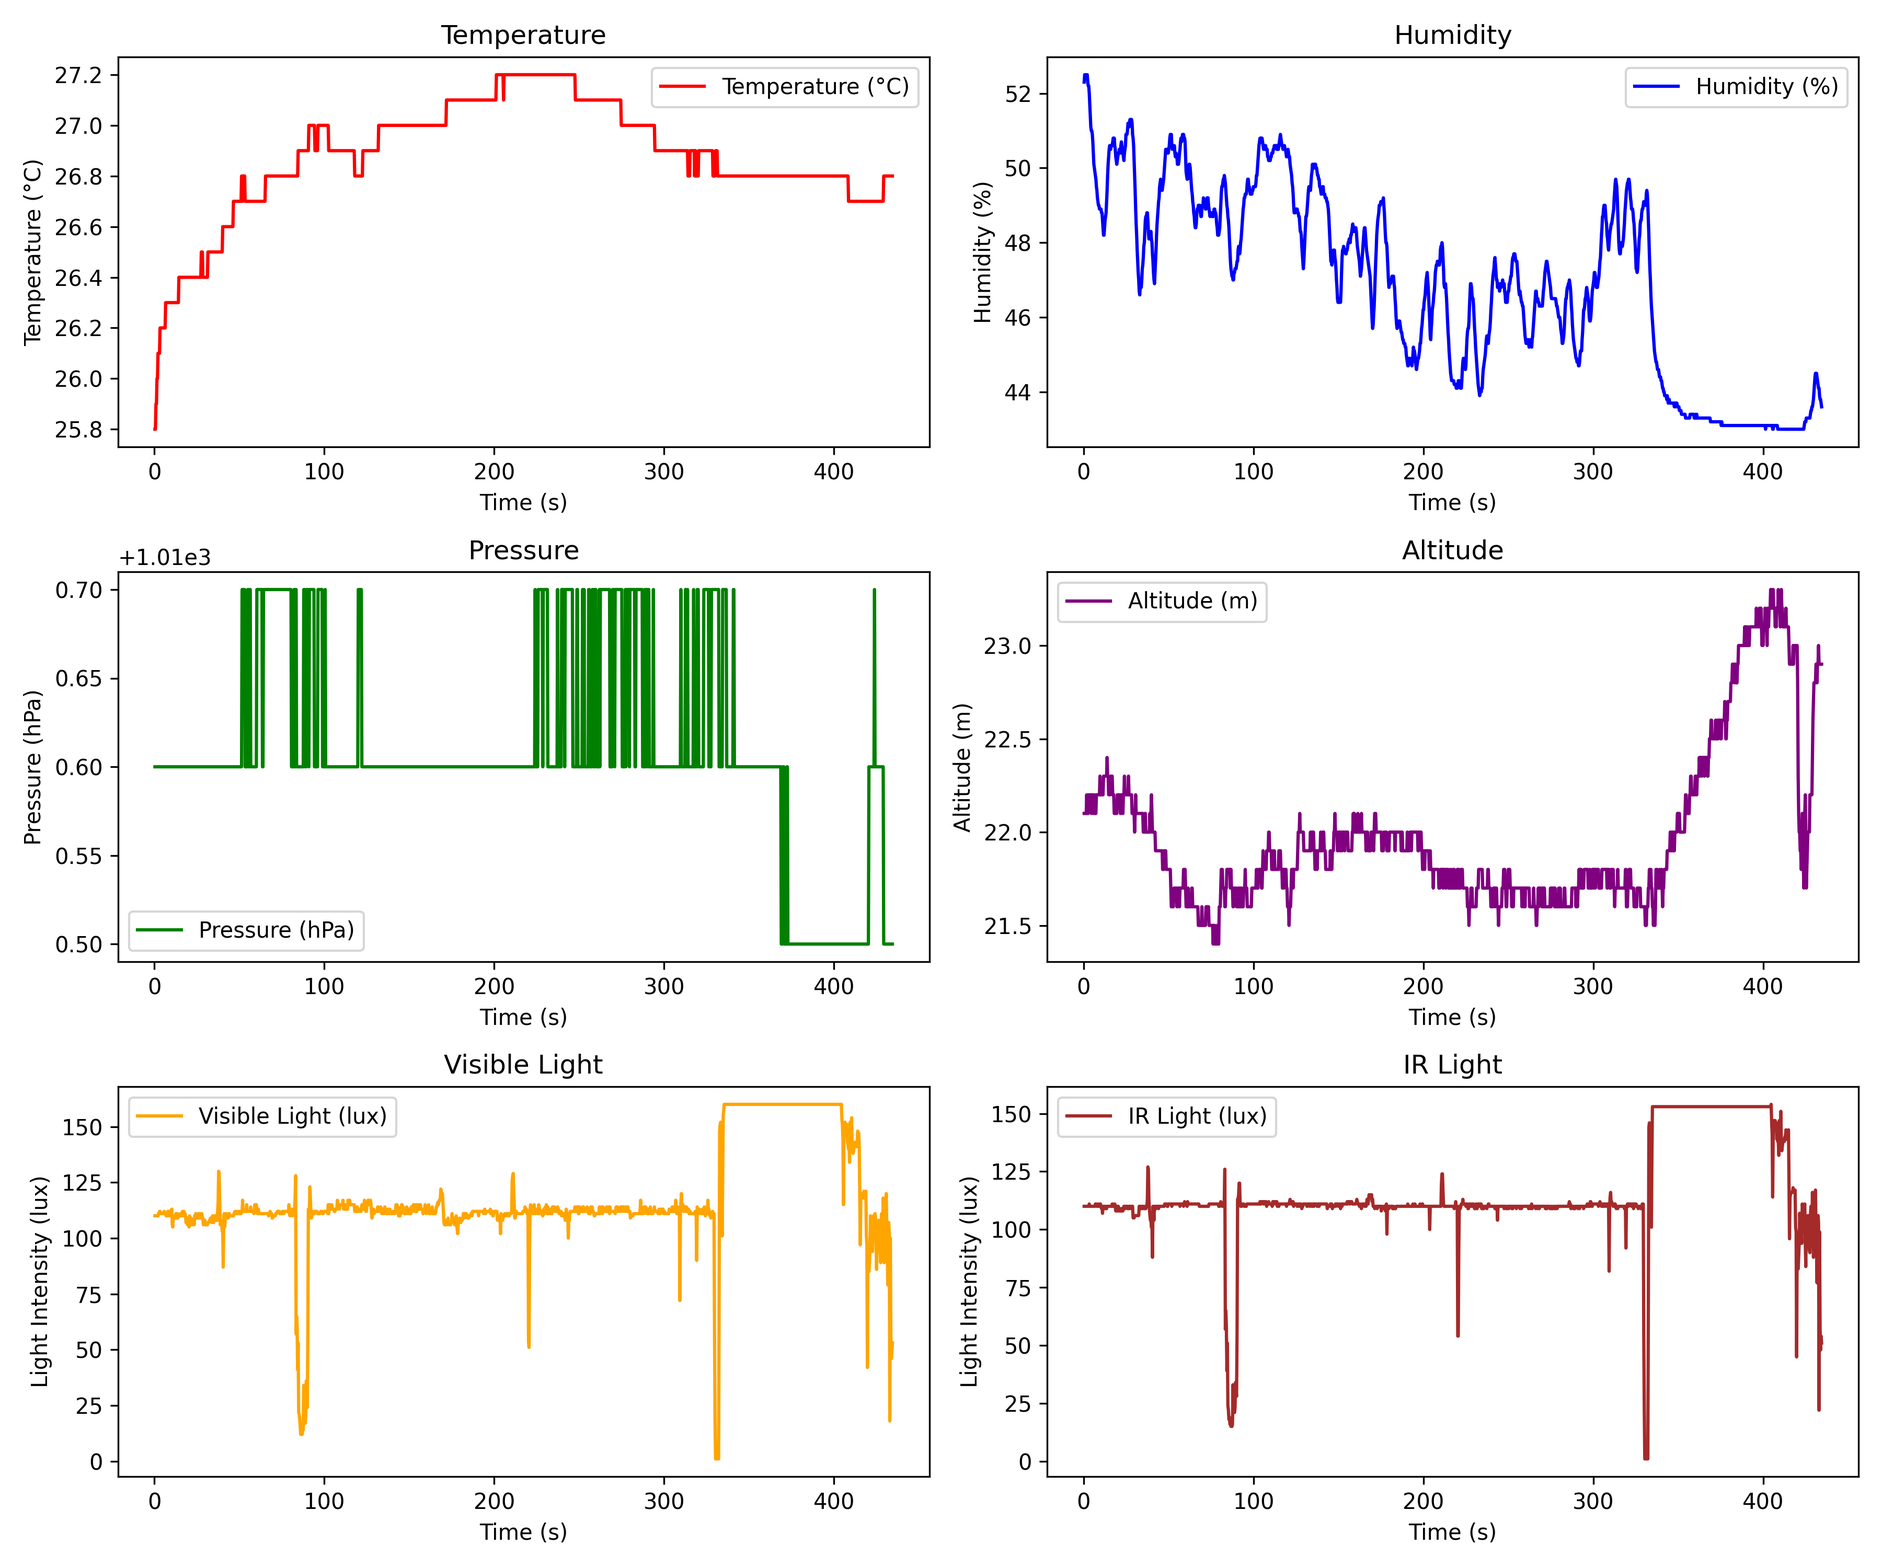
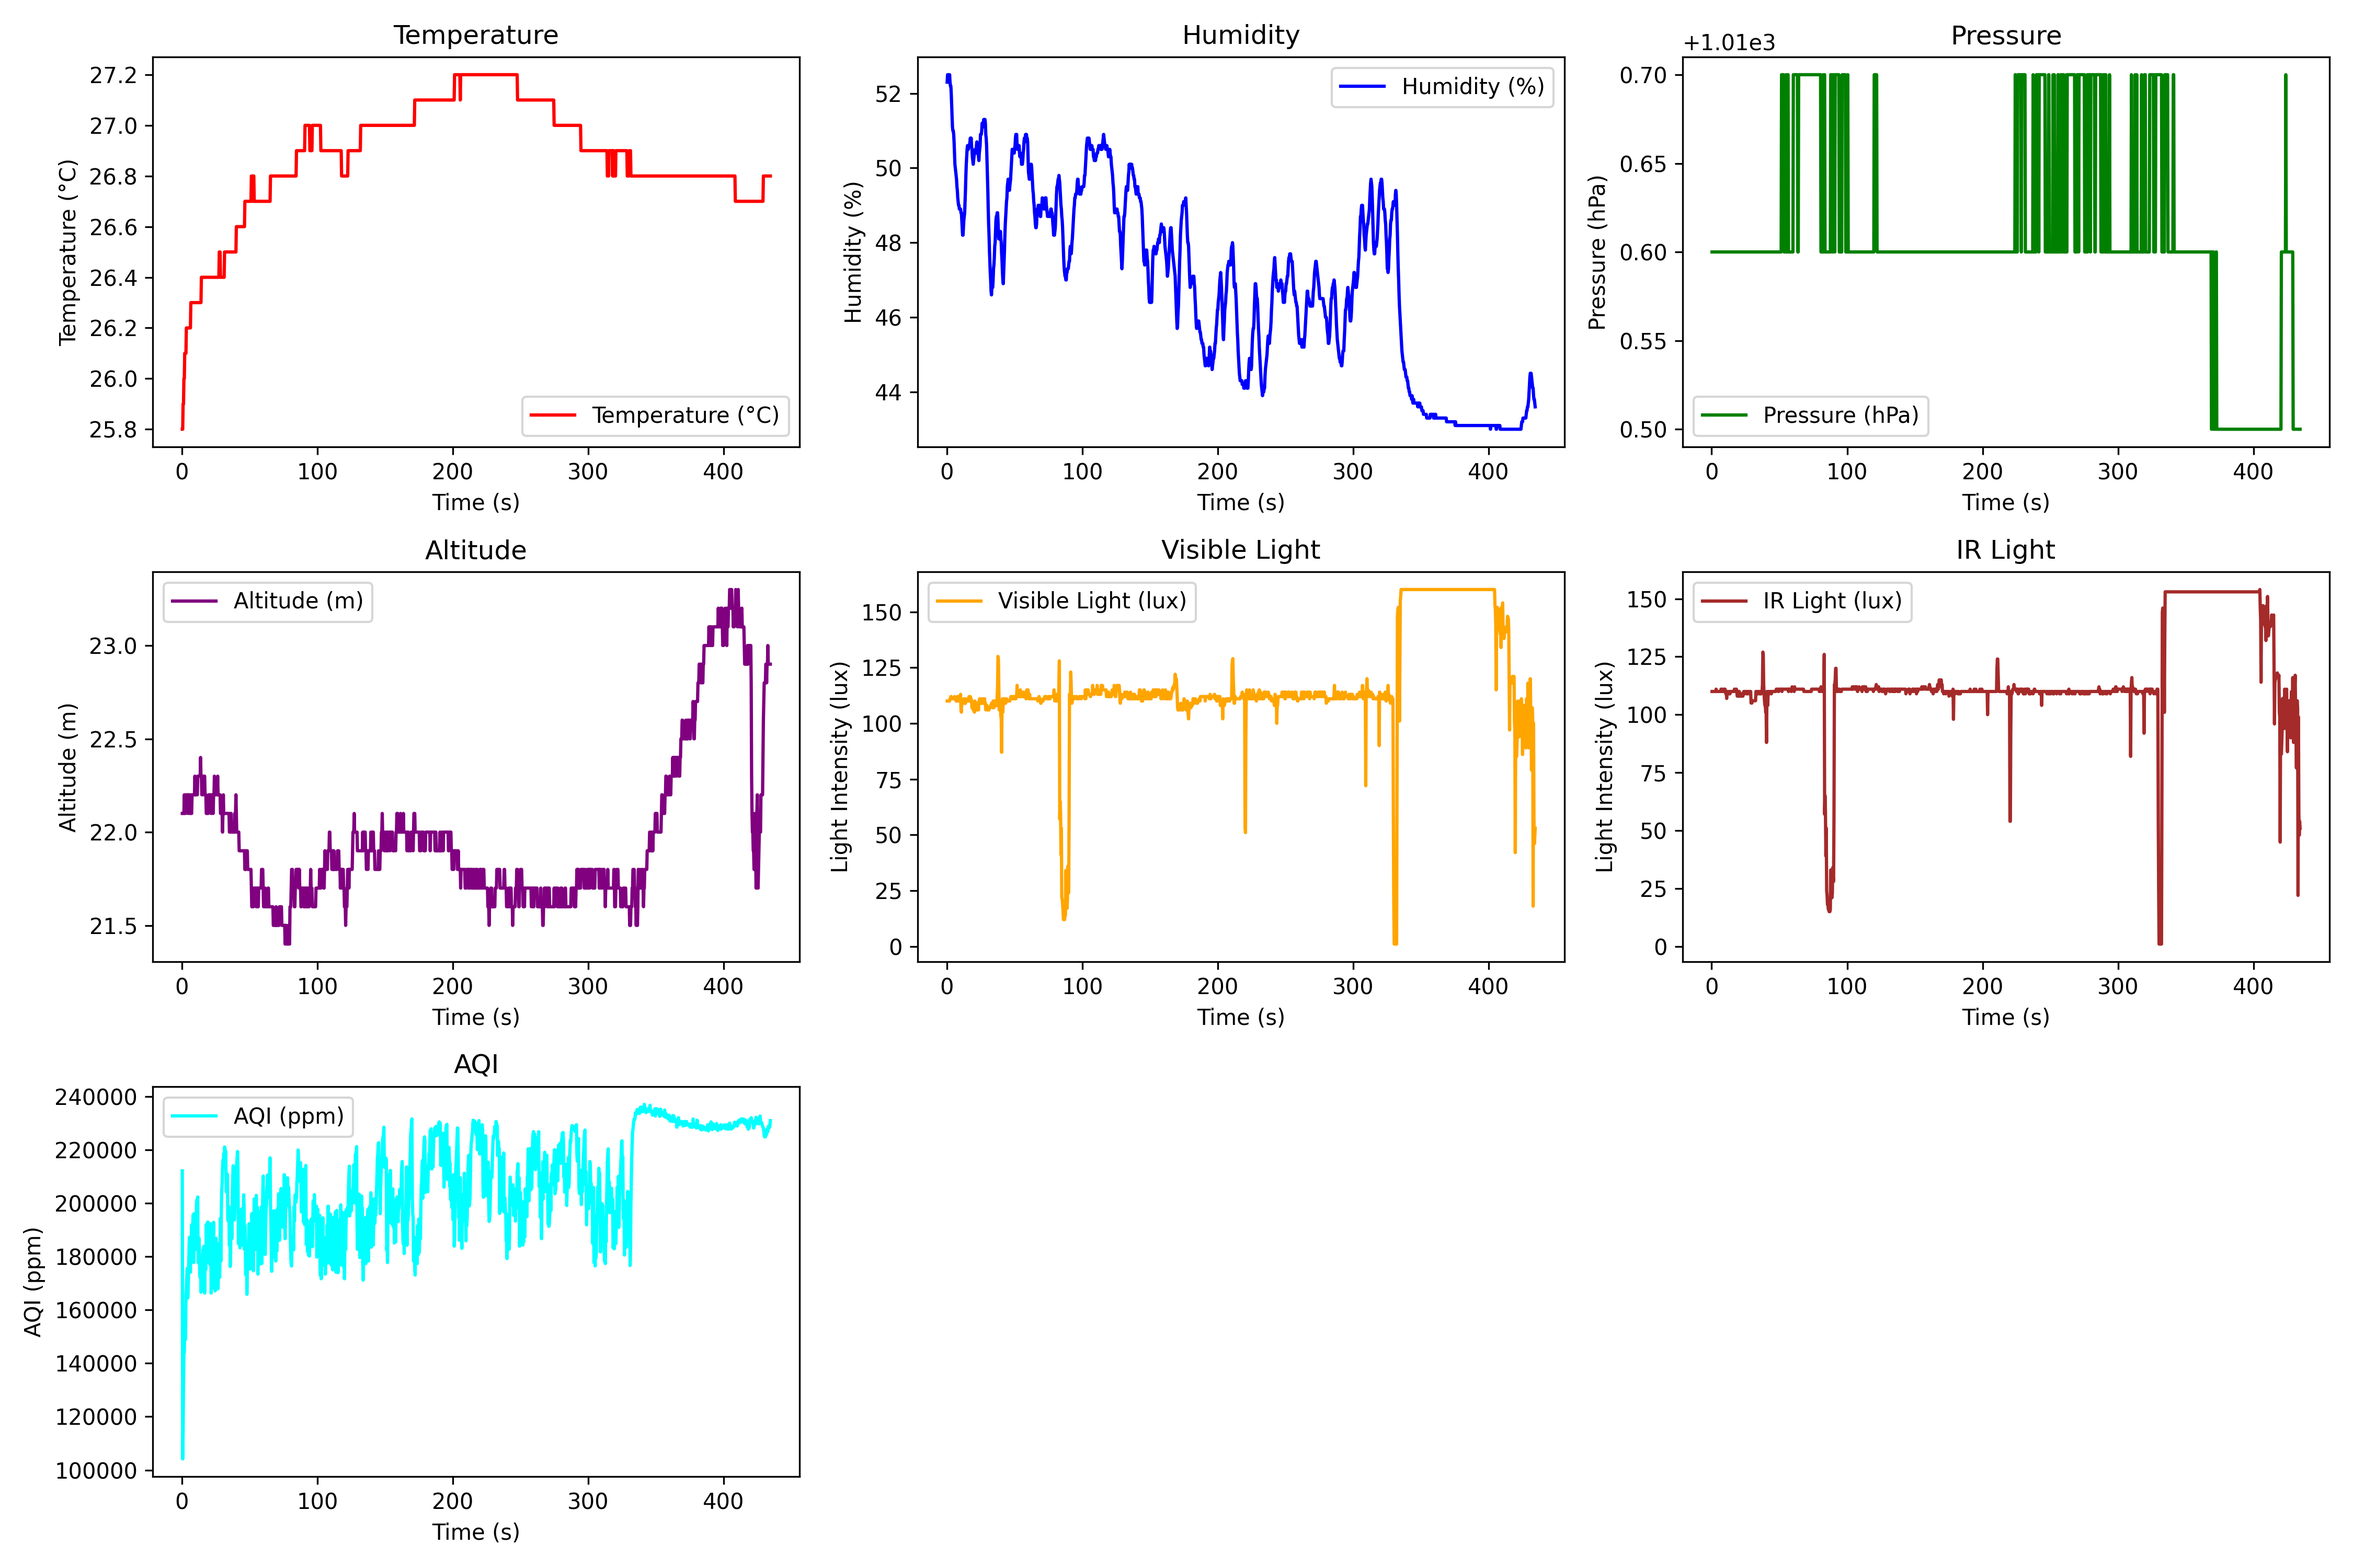
update code.py and plotting function for gas

diff --git a/plot_logged_data.py b/plot_logged_data.py
@@ -38,8 +38,8 @@ def plot_data(file_path):
             visible_lights.append(float(row[6]))
             ir_lights.append(float(row[7]))
 
-    # Create a single plot with multiple panels (subplots) in 2 columns and 3 rows
-    fig, axs = plt.subplots(3, 2, figsize=(12, 10))
+    # Create a single plot with multiple panels (subplots) in 3 columns and 3 rows
+    fig, axs = plt.subplots(3, 3, figsize=(15, 10))
 
     # Plot temperature
     axs[0, 0].plot(timestamps, temperatures, label="Temperature (°C)", color="red")
@@ -56,32 +56,43 @@ def plot_data(file_path):
     axs[0, 1].set_title("Humidity")
 
     # Plot pressure
-    axs[1, 0].plot(timestamps, pressures, label="Pressure (hPa)", color="green")
-    axs[1, 0].set_xlabel("Time (s)")
-    axs[1, 0].set_ylabel("Pressure (hPa)")
-    axs[1, 0].legend()
-    axs[1, 0].set_title("Pressure")
+    axs[0, 2].plot(timestamps, pressures, label="Pressure (hPa)", color="green")
+    axs[0, 2].set_xlabel("Time (s)")
+    axs[0, 2].set_ylabel("Pressure (hPa)")
+    axs[0, 2].legend()
+    axs[0, 2].set_title("Pressure")
 
     # Plot altitude
-    axs[1, 1].plot(timestamps, altitudes, label="Altitude (m)", color="purple")
-    axs[1, 1].set_xlabel("Time (s)")
-    axs[1, 1].set_ylabel("Altitude (m)")
-    axs[1, 1].legend()
-    axs[1, 1].set_title("Altitude")
+    axs[1, 0].plot(timestamps, altitudes, label="Altitude (m)", color="purple")
+    axs[1, 0].set_xlabel("Time (s)")
+    axs[1, 0].set_ylabel("Altitude (m)")
+    axs[1, 0].legend()
+    axs[1, 0].set_title("Altitude")
 
     # Plot visible light
-    axs[2, 0].plot(timestamps, visible_lights, label="Visible Light (lux)", color="orange")
-    axs[2, 0].set_xlabel("Time (s)")
-    axs[2, 0].set_ylabel("Light Intensity (lux)")
-    axs[2, 0].legend()
-    axs[2, 0].set_title("Visible Light")
+    axs[1, 1].plot(timestamps, visible_lights, label="Visible Light (lux)", color="orange")
+    axs[1, 1].set_xlabel("Time (s)")
+    axs[1, 1].set_ylabel("Light Intensity (lux)")
+    axs[1, 1].legend()
+    axs[1, 1].set_title("Visible Light")
 
     # Plot IR light
-    axs[2, 1].plot(timestamps, ir_lights, label="IR Light (lux)", color="brown")
-    axs[2, 1].set_xlabel("Time (s)")
-    axs[2, 1].set_ylabel("Light Intensity (lux)")
-    axs[2, 1].legend()
-    axs[2, 1].set_title("IR Light")
+    axs[1, 2].plot(timestamps, ir_lights, label="IR Light (lux)", color="brown")
+    axs[1, 2].set_xlabel("Time (s)")
+    axs[1, 2].set_ylabel("Light Intensity (lux)")
+    axs[1, 2].legend()
+    axs[1, 2].set_title("IR Light")
+
+    # Plot gases
+    axs[2, 0].plot(timestamps, gases, label="AQI (ppm)", color="cyan")
+    axs[2, 0].set_xlabel("Time (s)")
+    axs[2, 0].set_ylabel("AQI (ppm)")
+    axs[2, 0].legend()
+    axs[2, 0].set_title("AQI")
+
+    # Remove unused plots (second row, third column, and third row, second and third columns)
+    fig.delaxes(axs[2, 1])  # Remove subplot at (2, 1)
+    fig.delaxes(axs[2, 2])  # Remove subplot at (2, 2)
 
     # Adjust layout to prevent overlap
     plt.tight_layout()

diff --git a/CIRCUITPYTHON_CLONE/code.py b/CIRCUITPYTHON_CLONE/code.py
@@ -58,12 +58,12 @@ while True:
 
     # Display readings on OLED
     oled.fill(0)
-    oled.text(f"Temp: {temperature:.1f} C", 0, 0, 1)
-    oled.text(f"Gas: {gas} ohms", 0, 10, 1)
-    oled.text(f"Humidity: {relative_humidity:.1f} %", 0, 20, 1)
-    oled.text(f"Pressure: {pressure:.1f} hPa", 0, 30, 1)
-    oled.text(f"Altitude: {altitude:.1f} m", 0, 40, 1)
-    oled.text(f"Vis:{vis:.1f}|IR:{IR:.1f} lux", 0, 50, 1)
+    oled.text(f"Temp: {temperature:.1f}C", 0, 0, 1)
+    oled.text(f"Gas: {gas}ohms", 0, 10, 1)
+    oled.text(f"Humidity: {relative_humidity:.1f}%", 0, 20, 1)
+    oled.text(f"Pressure: {pressure:.1f}hPa", 0, 30, 1)
+    oled.text(f"Altitude: {altitude:.1f}m", 0, 40, 1)
+    oled.text(f"Vis:{vis:.1f}|IR:{IR:.1f}lux", 0, 50, 1)
     oled.show()
 
     # Create a simplified timestamp based on log_counter
@@ -80,9 +80,6 @@ while True:
     # Blink LEDs
     pin_D10.value = True
     pin_NEO.value = True
-    time.sleep(0.1)
+    time.sleep(0.2) # frequency of data sampling
     pin_D10.value = False
     pin_NEO.value = False
-
-    # Delay to log data once every second
-    time.sleep(0.2)
